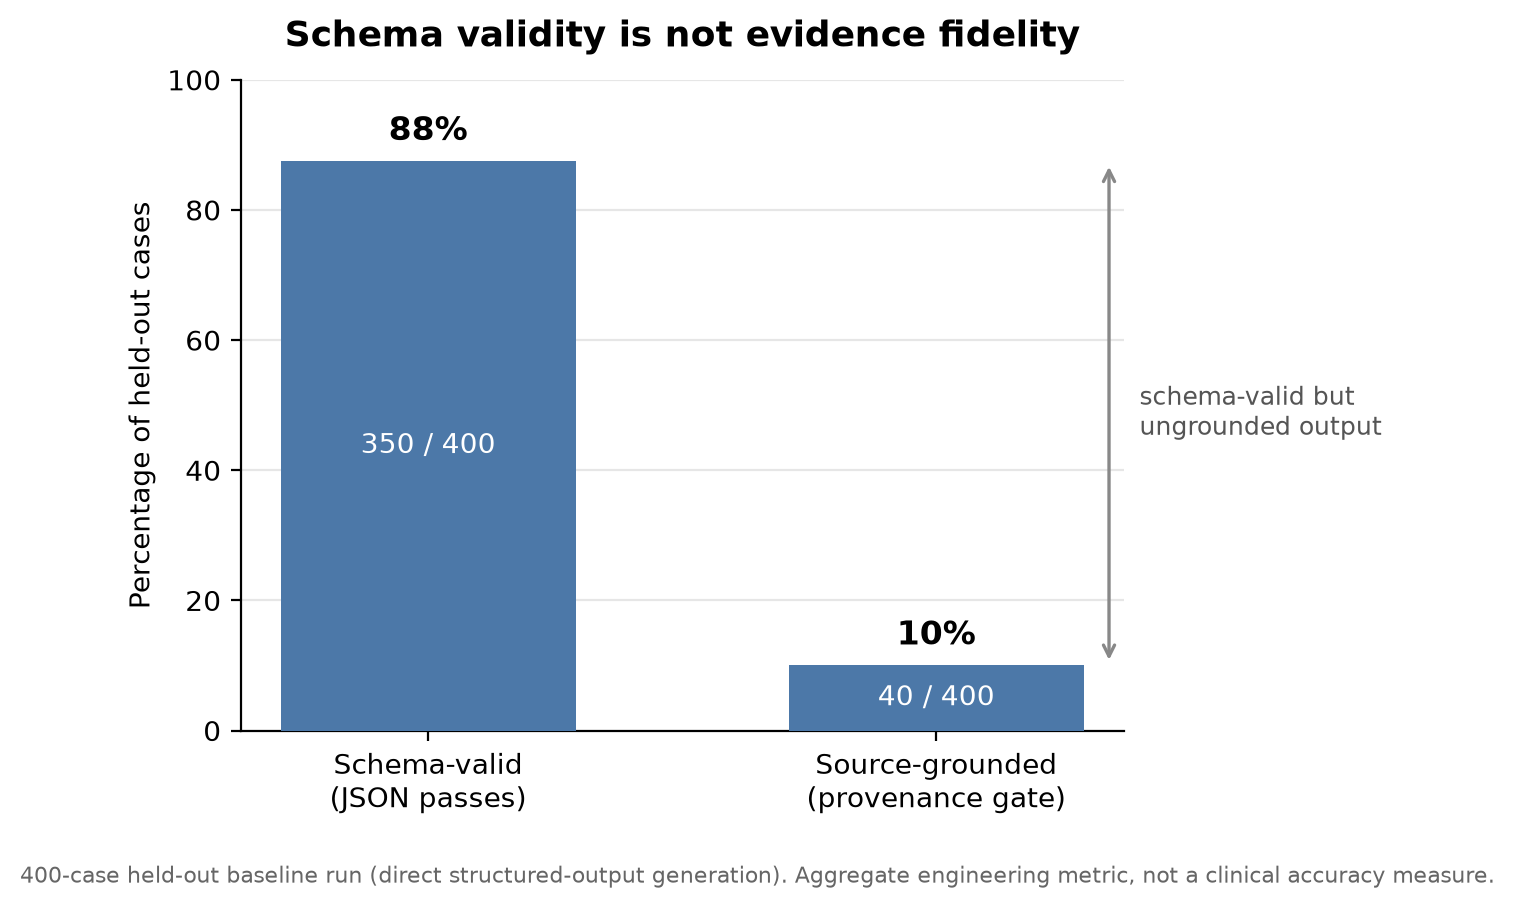
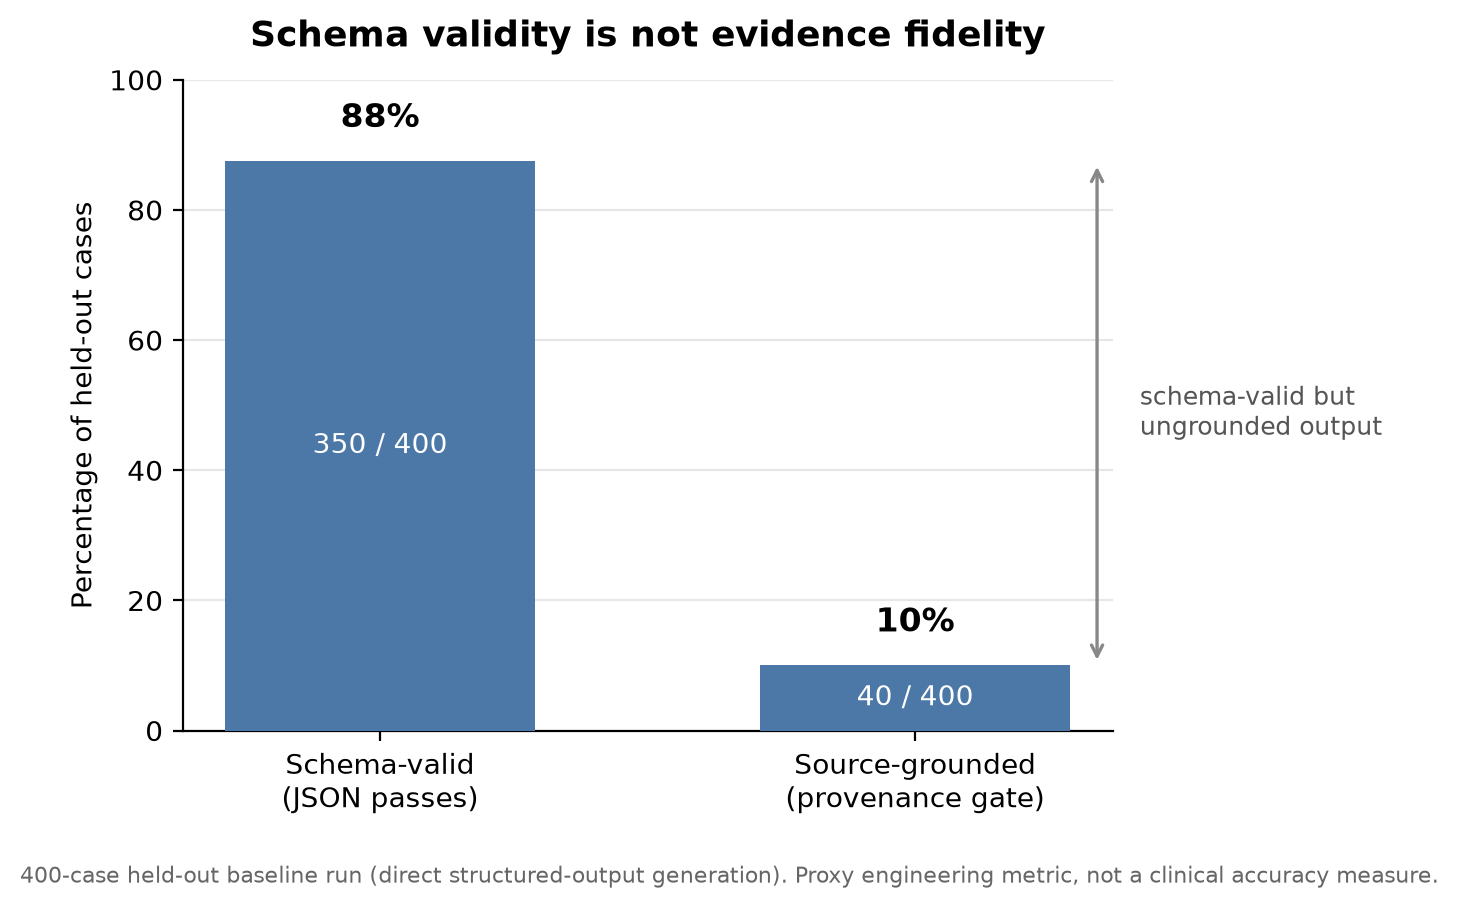
Tighten public figures and disclaimers

diff --git a/scripts/check-share-readiness.js b/scripts/check-share-readiness.js
@@ -7,7 +7,6 @@ const root = path.resolve(__dirname, "..");
 const failures = [];
 const required = [
   "README.md",
-  "CONTRIBUTING.md",
   "MODEL_CARD.md",
   "SECURITY.md",
   "LICENSE.md",

diff --git a/scripts/make-results-figure.py b/scripts/make-results-figure.py
@@ -1,12 +1,15 @@
 #!/usr/bin/env python3
 """
-Build the headline results figure for HandoffLens.
+Build the public results figures for HandoffLens.
 
 Reads the public aggregate numbers from eval/public_results_summary.json and
-draws a two-bar comparison of schema validity versus exact-source provenance
-on the 400-case held-out baseline run. No case-level data is read or written.
+draws a small set of comparison figures. No case-level data is read or written.
 
-Output: docs/assets/schema-vs-provenance.png
+Outputs:
+- docs/assets/schema-vs-provenance.png
+- docs/assets/stage-yield.png
+- docs/assets/rematerialization-proxy-audit.png
+
 Requirements: Python 3 and matplotlib.
 Run from the repository root:  python3 scripts/make-results-figure.py
 """
@@ -22,10 +25,51 @@ import matplotlib.pyplot as plt
 ROOT = pathlib.Path(__file__).resolve().parents[1]
 SUMMARY = ROOT / "eval" / "public_results_summary.json"
 OUT_DIR = ROOT / "docs" / "assets"
-OUT_FILE = OUT_DIR / "schema-vs-provenance.png"
+SCHEMA_FILE = OUT_DIR / "schema-vs-provenance.png"
+STAGE_FILE = OUT_DIR / "stage-yield.png"
+AUDIT_FILE = OUT_DIR / "rematerialization-proxy-audit.png"
+
+
+def save_bar_figure(file_path, labels, values, counts, title, ylabel, subtitle, *, ylim=(0, 100), arrow=None, arrow_label=None):
+    fig, ax = plt.subplots(figsize=(6.9, 4.3))
+    bars = ax.bar(labels, values, color=["#4C78A8"] * len(values), width=0.58, zorder=3)
+    ax.set_ylim(*ylim)
+    ax.set_ylabel(ylabel)
+    ax.set_title(title, fontsize=13, fontweight="bold", pad=12)
+    ax.yaxis.grid(True, color="#E6E6E6", zorder=0)
+    ax.set_axisbelow(True)
+    for spine in ("top", "right"):
+        ax.spines[spine].set_visible(False)
+
+    top_padding = ylim[1] - ylim[0]
+    for bar, pct, count in zip(bars, values, counts):
+        x = bar.get_x() + bar.get_width() / 2
+        ax.text(x, bar.get_height() + 0.04 * top_padding, f"{pct:.0f}%", ha="center", va="bottom",
+                fontsize=12, fontweight="bold")
+        ax.text(x, bar.get_height() / 2, count, ha="center", va="center",
+                fontsize=10, color="white")
+
+    if arrow is not None:
+        x_pos, lower, upper = arrow
+        ax.annotate(
+            "",
+            xy=(x_pos, upper),
+            xytext=(x_pos, lower),
+            arrowprops=dict(arrowstyle="<->", color="#888888", lw=1.2),
+        )
+        if arrow_label:
+            ax.text(x_pos + 0.08, (lower + upper) / 2, arrow_label,
+                    ha="left", va="center", fontsize=9, color="#555555")
+
+    fig.text(0.5, -0.02, subtitle, ha="center", va="top", fontsize=8, color="#666666")
+    OUT_DIR.mkdir(parents=True, exist_ok=True)
+    fig.tight_layout()
+    fig.savefig(file_path, dpi=200, bbox_inches="tight")
+    plt.close(fig)
 
 data = json.loads(SUMMARY.read_text())
 run = data["heldout_engineering_run"]
+architecture = data["architecture_development"]
 
 cases = run["cases"]
 schema_valid = run["json_schema_reasoning_512_valid"]
@@ -37,43 +81,56 @@ provenance_pct = 100.0 * provenance_passed / cases
 labels = ["Schema-valid\n(JSON passes)", "Source-grounded\n(provenance gate)"]
 values = [schema_pct, provenance_pct]
 counts = [f"{schema_valid} / {cases}", f"{provenance_passed} / {cases}"]
-colors = ["#4C78A8", "#4C78A8"]
-
-fig, ax = plt.subplots(figsize=(6.6, 4.3))
-bars = ax.bar(labels, values, color=colors, width=0.58, zorder=3)
-
-ax.set_ylim(0, 100)
-ax.set_ylabel("Percentage of held-out cases")
-ax.set_title("Schema validity is not evidence fidelity", fontsize=13, fontweight="bold", pad=12)
-ax.yaxis.grid(True, color="#E6E6E6", zorder=0)
-ax.set_axisbelow(True)
-for spine in ("top", "right"):
-    ax.spines[spine].set_visible(False)
-
-for bar, pct, count in zip(bars, values, counts):
-    x = bar.get_x() + bar.get_width() / 2
-    ax.text(x, bar.get_height() + 2.0, f"{pct:.0f}%", ha="center", va="bottom",
-            fontsize=12, fontweight="bold")
-    ax.text(x, bar.get_height() / 2, count, ha="center", va="center",
-            fontsize=10, color="white")
-
-gap_x = 1.0
-ax.annotate(
-    "",
-    xy=(gap_x + 0.34, provenance_pct),
-    xytext=(gap_x + 0.34, schema_pct),
-    arrowprops=dict(arrowstyle="<->", color="#888888", lw=1.2),
+save_bar_figure(
+    SCHEMA_FILE,
+    labels,
+    values,
+    counts,
+    "Schema validity is not evidence fidelity",
+    "Percentage of held-out cases",
+    f"{cases}-case held-out baseline run (direct structured-output generation). Proxy engineering metric, not a clinical accuracy measure.",
+    arrow=(1.34, schema_pct, provenance_pct),
+    arrow_label="schema-valid but\nungrounded output",
 )
-ax.text(gap_x + 0.40, (schema_pct + provenance_pct) / 2,
-        "schema-valid but\nungrounded output",
-        ha="left", va="center", fontsize=9, color="#555555")
 
-fig.text(0.5, -0.02,
-         f"{cases}-case held-out baseline run (direct structured-output generation). "
-         "Aggregate engineering metric, not a clinical accuracy measure.",
-         ha="center", va="top", fontsize=8, color="#666666")
+stage_labels = ["Evidence-span\nv2 rerun", "Multi-stage\nv3", "Candidate-first\nv4", "V4 stability\nrepeat test"]
+stage_values = [
+    100.0 * architecture["evidence_span_v2_final_rerun"]["technical_successes"] / architecture["evidence_span_v2_final_rerun"]["cases"],
+    100.0 * architecture["multi_stage_v3"]["deterministic_gate_passed"] / architecture["multi_stage_v3"]["cases"],
+    100.0 * architecture["candidate_first_v4_final_rerun"]["deterministic_gate_passed"] / architecture["candidate_first_v4_final_rerun"]["cases"],
+    100.0 * architecture["candidate_first_v4_stability"]["deterministic_gate_passed"] / architecture["candidate_first_v4_stability"]["cases"],
+]
+stage_counts = [
+    f"{architecture['evidence_span_v2_final_rerun']['technical_successes']} / {architecture['evidence_span_v2_final_rerun']['cases']}",
+    f"{architecture['multi_stage_v3']['deterministic_gate_passed']} / {architecture['multi_stage_v3']['cases']}",
+    f"{architecture['candidate_first_v4_final_rerun']['deterministic_gate_passed']} / {architecture['candidate_first_v4_final_rerun']['cases']}",
+    f"{architecture['candidate_first_v4_stability']['deterministic_gate_passed']} / {architecture['candidate_first_v4_stability']['cases']}",
+]
+save_bar_figure(
+    STAGE_FILE,
+    stage_labels,
+    stage_values,
+    stage_counts,
+    "Stage-specific proxy success rates across the development path",
+    "Percentage of cases meeting each stage's own gate",
+    "Each bar uses the stage's own success criterion, so this is a development-path proxy snapshot rather than a single homogeneous benchmark.",
+)
 
-OUT_DIR.mkdir(parents=True, exist_ok=True)
-fig.tight_layout()
-fig.savefig(OUT_FILE, dpi=200, bbox_inches="tight")
-print(f"Wrote {OUT_FILE.relative_to(ROOT)}")
+audit_labels = ["Model-written\nsummary audit", "Extractive\nrematerialized audit"]
+audit_values = [25.0, 85.0]
+audit_counts = ["5 / 20", "17 / 20"]
+save_bar_figure(
+    AUDIT_FILE,
+    audit_labels,
+    audit_values,
+    audit_counts,
+    "Deterministic rematerialization improved proxy audit pass rate",
+    "Percentage of audit records passing the proxy check",
+    "The audit is a proxy for unsupported-detail leakage, not a substitute for human factual review.",
+    arrow=(1.34, 25.0, 85.0),
+    arrow_label="unsupported numeric\ndetails removed",
+)
+
+print(f"Wrote {SCHEMA_FILE.relative_to(ROOT)}")
+print(f"Wrote {STAGE_FILE.relative_to(ROOT)}")
+print(f"Wrote {AUDIT_FILE.relative_to(ROOT)}")

diff --git a/README.md b/README.md
@@ -6,6 +6,8 @@ HandoffLens is a research and engineering project for source-grounded informatio
 
 The project is aimed at engineers and data scientists building LLM systems over long, messy, high-stakes documents. It is a portfolio/research artifact, not a medical product.
 
+This repository is my independent work. It does not represent the views, strategies, or endorsement of Cohere or any other model provider.
+
 ## The result
 
 Structured output is not the same thing as grounded output.
@@ -72,7 +74,11 @@ The full LLM/provenance pipeline is represented in the validation reports and ca
 | Source-fidelity review packets | Prepared | Human factual review is pending |
 | Conformal/selective routing | Ongoing appendix | Uses proxy labels for escalation-policy research, not clinical safety |
 
-![Bar chart: on the 400-case held-out baseline run, 88% of outputs were schema-valid but only 10% passed an exact-source provenance check.](docs/assets/schema-vs-provenance.png)
+The public figure set is reproducible from `eval/public_results_summary.json` by running `python3 scripts/make-results-figure.py` after `python3 -m pip install -r requirements.txt`.
+
+![Bar chart: proxy result from the 400-case held-out baseline run. Schema-valid output was common, but exact-source provenance was rare.](docs/assets/schema-vs-provenance.png)
+![Bar chart: development-path proxy comparison across evidence-span v2, multi-stage v3, candidate-first v4, and the stability repeat test.](docs/assets/stage-yield.png)
+![Bar chart: proxy audit pass rate improved after deterministic rematerialization removed unsupported numeric details from summaries.](docs/assets/rematerialization-proxy-audit.png)
 
 ## What this does not claim
 

diff --git a/MODEL_CARD.md b/MODEL_CARD.md
@@ -6,6 +6,8 @@ HandoffLens is a research and engineering system for source-grounded extraction 
 
 This is not a medical device and is not intended for clinical use.
 
+This repository is my independent work. It does not represent the views, strategies, or endorsement of Cohere or any other model provider.
+
 ## Intended audience
 
 This model card is written for engineers, data scientists, technical professionals, and reviewers evaluating the reliability architecture. It describes what the system demonstrates, what evidence exists, and where the claims stop.

diff --git a/docs/FINAL_TESTS_BEFORE_SHARING.md b/docs/FINAL_TESTS_BEFORE_SHARING.md
@@ -7,6 +7,7 @@ This note records the final public-share readiness checks for the current engine
 - Public repo validation passed for syntax, schema/protocol consistency, deterministic source-pointer indexing, extraction quality-gate behavior, candidate-first v4 mechanics, and share-readiness exclusions.
 - The current headline results figure is generated from `eval/public_results_summary.json` only.
 - The public README links to the generated `docs/assets/schema-vs-provenance.png` figure.
+- The public figure set is reproducible with pinned Python dependencies in `requirements.txt`, but the charts remain proxy engineering evidence rather than benchmark claims.
 
 ## Interpretation
 